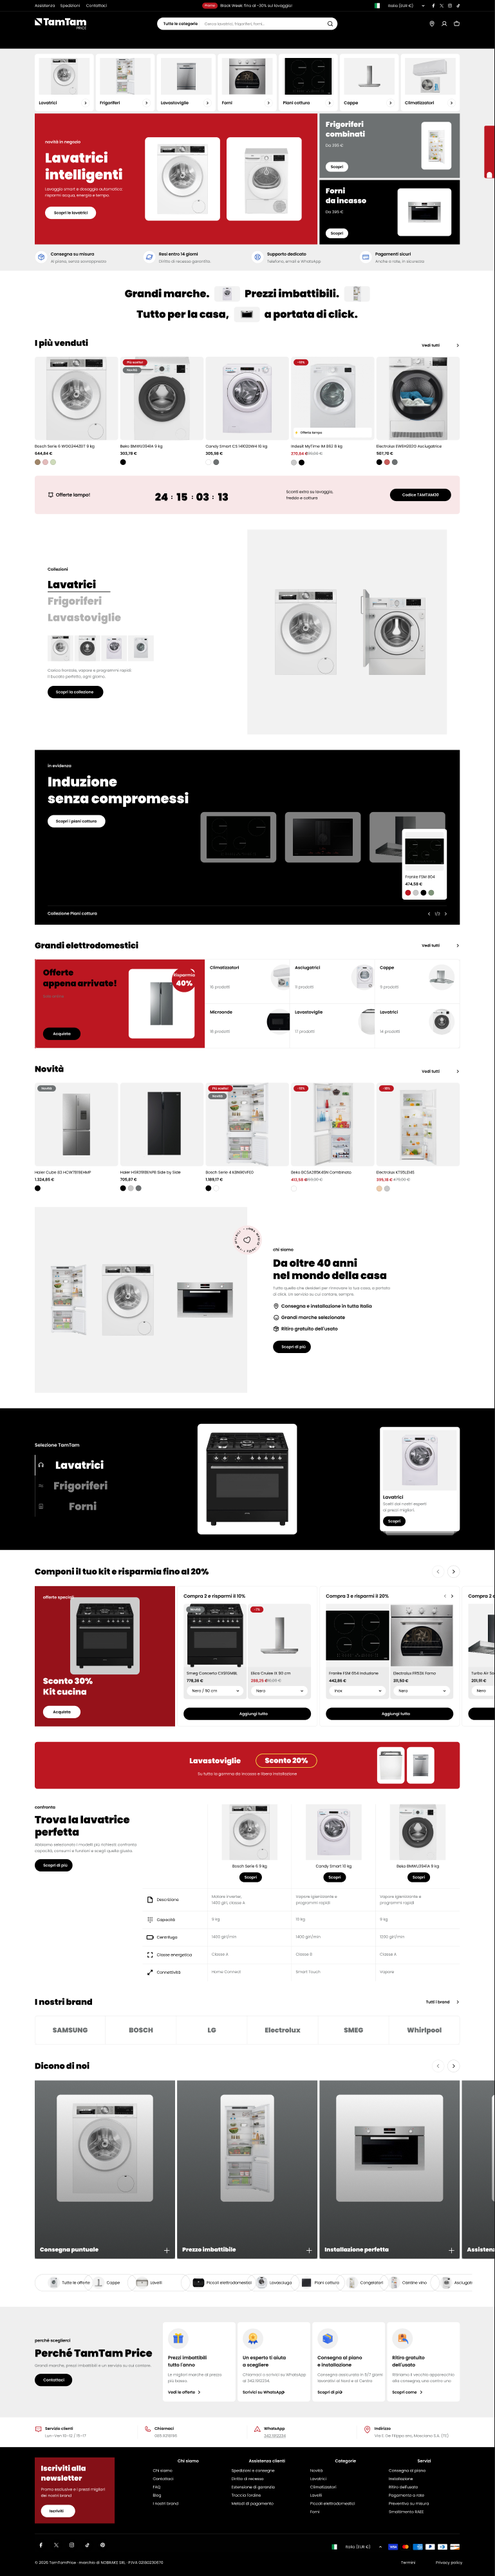
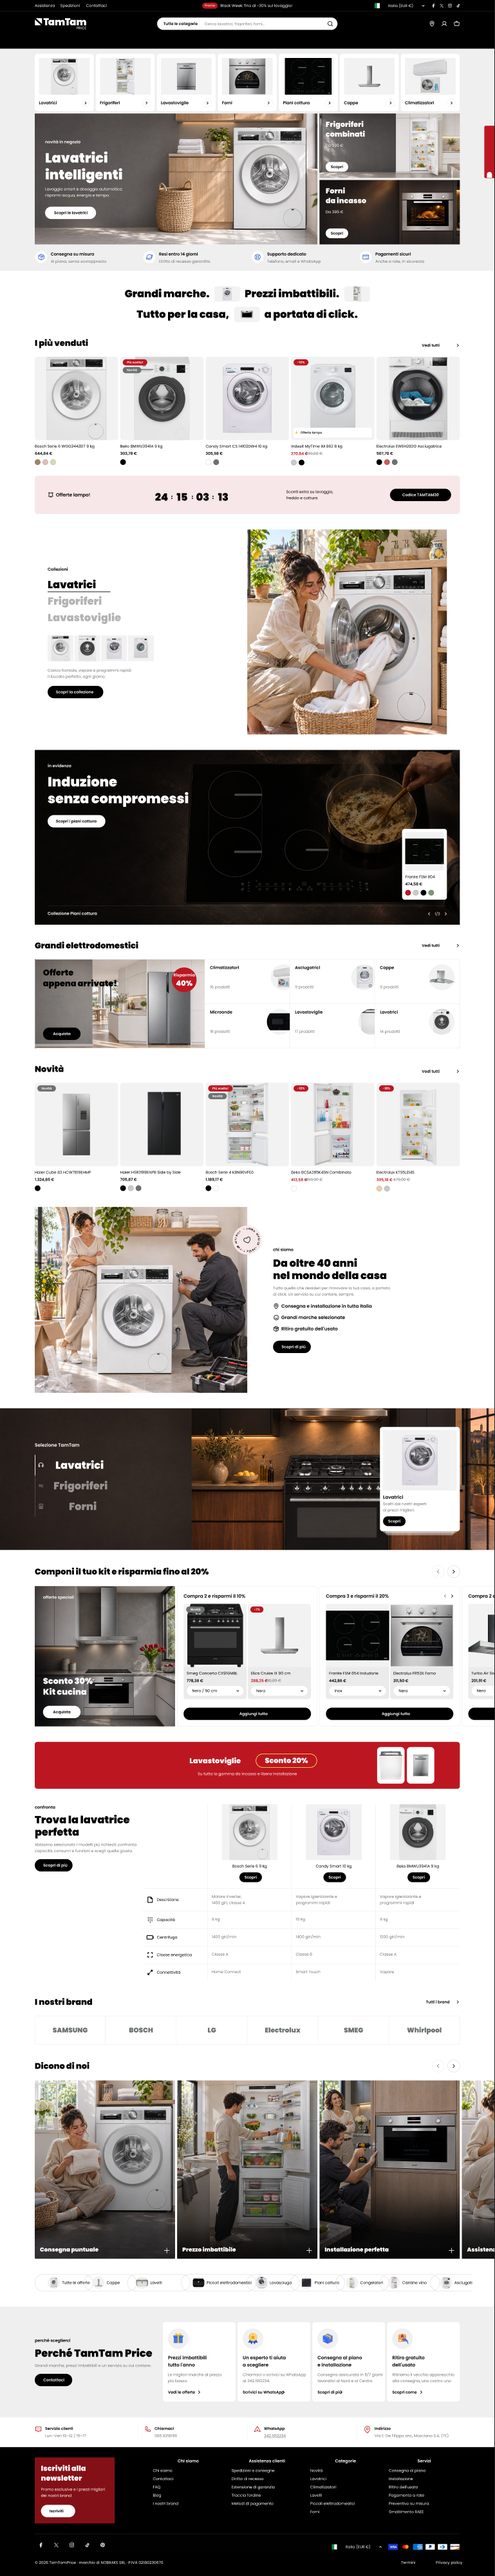
Replace homepage product montages with AI lifestyle photos
- Generated 68 photorealistic scenes with Higgsfield (gpt_image_2_6),
  each using the real product photo as a reference and the brand's
  mood (TamTam bright/dark, MisterCucina navy and terracotta,
  Trovaincasso sage and oak), with calm areas left for the headlines.
- Placed them as image fills on the homepage slots of all three sites
  and removed the old "Foto prodotto" montage layers.
- MisterCucina: navy overlay behind "Forni multifunzione". Trovaincasso:
  hero headline "Piani aspiranti" to match the new photo, wider hero
  buttons.
- Documented the slot-to-image map in docs/figma/ai-photos.md, added
  contact sheets and updated the homepage renders.

Claude-Session: https://claude.ai/code/session_01DzDcr4Xa4AaqXv1Nbqd2T5

diff --git a/docs/figma/ai-photos.md b/docs/figma/ai-photos.md
@@ -1,0 +1,70 @@
+# AI lifestyle photos on the homepages (2026-11-10)
+
+All three homepages now use **photorealistic lifestyle photos and photomontages** made with Higgsfield instead of
+product cut-outs on flat brand colours. The boards (PLP, PDP, cart, …) still use the white-background product photos.
+
+- **Tool and model:** Higgsfield, `gpt_image_2_6`, quality `high`, resolution `2k`, about 1 credit per image
+  (68 images in total).
+- **Real products:** each prompt uses the matching product photo from the `ASSETS · Foto prodotto` page as a reference,
+  so the appliance in the scene is the one sold. The prompts ask to keep the appliance's design, controls and logo.
+  People wear plain uniforms with no logos.
+- **Brand mood:**
+  - TamTam Price: bright modern kitchens and laundries, with dark areas where the white headlines sit.
+  - MisterCucina: navy cabinets, terracotta, brass and copper (Mediterranean).
+  - Trovaincasso: sage-green and light oak, handleless built-in kitchens.
+- **Text space:** where the slot carries copy, the prompt leaves a darker, calm area in that spot (left half, top
+  third, bottom third or centre).
+- **In Figma:** each image is an `IMAGE` fill (scale `FILL`) on the original slot frame. The old `Foto prodotto · …`
+  montage layers were deleted. Hidden slides of the same carousel reuse the same `imageHash`.
+- **Contact sheets:** [../screenshots/higgsfield/](../screenshots/higgsfield/) (labels `g<index>`, `p<index>` match
+  the table below).
+- **Kept as product montages:**
+  - TamTam: the dishwasher promo strip `1:5128` and the newsletter card in the footer `1:5506`.
+  - Trovaincasso: the two "Risparmia" banners `1:3575` and `1:3588`.
+
+## Slot → image
+
+| Site | Slot (node) | Section | Image | Scene |
+|---|---|---|---|---|
+| TamTam | `1:4434` | Hero | p0 | Laundry with Bosch Serie 6 washer |
+| TamTam | `1:4444` | Hero tile "Frigoriferi combinati" | g10 | Built-in fridge, door open |
+| TamTam | `1:4453` | Hero tile "Forni da incasso" | g11 | Oven with roast chicken |
+| TamTam | `1:4632` | Collections | g12 | Woman unloading the washer |
+| TamTam | `1:4638` (+`1:4684`) | Slideshow "Cucina come un professionista" | g13 | Cook opening the oven |
+| TamTam | `1:4660` (+`1:4706`) | Slideshow "Induzione senza compromessi" | g14 | Risotto on the induction hob |
+| TamTam | `1:4743` | Promo tile "Offerte appena arrivate" | g15 | Side-by-side fridge |
+| TamTam | `1:4889` | "Chi siamo" | g16 | Technician installing the washer |
+| TamTam | `1:4949` | "Selezione TamTam" banner | g17 | Range cooker, dark kitchen |
+| TamTam | `1:5023` | Bundle "Sconto 30% Kit cucina" | g18 | Hood above the oven |
+| TamTam | `1:5318` `1:5334` `1:5350` `1:5366` | "Dicono di noi" | g19–g22 | Washer, fridge, oven install, dishwasher |
+| TamTam | `1:5738` | Newsletter popup | g23 | Counter with oven, red accent |
+| MisterCucina | `1:1451` | Hero | p1 | Smeg cooker in a navy kitchen |
+| MisterCucina | `1:1462` `1:1472` `1:1481` | Hero tiles | g30–g32 | Induction, oven, coffee machine |
+| MisterCucina | `1:1765` `1:1778` `1:1791` `1:1804` `1:1817` | Card slider | g33–g37 | Oven, induction, hood, fridge, dishwasher |
+| MisterCucina | `1:1861` (+`1:1875`, `1:1896`) | "I preferiti dai clienti" | g38 | Family lunch, Smeg cooker |
+| MisterCucina | `1:1913` `1:1937` `1:1961` `1:1985` | "Acquista per reparto" | g39–g42 | Cooking, cold, extraction, washing |
+| MisterCucina | `1:2010` `1:2028` | "La cucina su misura" | g43, g44 | Gas hob, side-by-side |
+| MisterCucina | `1:2132` | "Forni multifunzione" | g45 | Chef with roast. Has a navy radial overlay for the headline |
+| MisterCucina | `1:2259` `1:2309` `1:2324` | Lookbook | g46–g48 | Cooker, hood, island |
+| MisterCucina | `1:2465` | "Set incasso completo" | g49 | Oven, hob and hood wall |
+| MisterCucina | `1:2539`–`1:2575` | Instagram | g50–g54 | Social-style shots |
+| MisterCucina | `1:2835` | Newsletter popup | g55 | Cooker knobs close-up |
+| Trovaincasso | `1:2944` (+`1:2966`) | Hero slide "La cucina giusta" | g60 | Oven column and hood |
+| Trovaincasso | `1:2955` (+`1:2977`) | Hero slide, headline now **"Piani aspiranti"** | p2 | Samsung NZ84 hob with integrated hood |
+| Trovaincasso | `1:3004` | Promo "Kit cucina da incasso" | g61 | Oven column |
+| Trovaincasso | `1:3119` `1:3138` `1:3157` `1:3176` | Image cards | g62–g65 | Oven, fridge, hood, dishwasher |
+| Trovaincasso | `1:3343` | "Collezioni in evidenza" | g66 | Island with hob and hood |
+| Trovaincasso | `1:3348` (+`1:3383`), `1:3362` | "I preferiti dai clienti" | g67, g84 | Built-in washer |
+| Trovaincasso | `1:3391` `1:3443` `1:3493` | "Lasciati ispirare" | g68–g70 | Cooker, coffee column, hob and hood |
+| Trovaincasso | `1:3768` | "Chi siamo" | g71 | Installers and customer |
+| Trovaincasso | `1:3863` (+`1:3889`), `1:3876` (+`1:3902`) | Slideshow "Piani cottura sotto i 300 €" | g72, g73 | Oven detail, gas hob |
+| Trovaincasso | `1:3992` `1:3998` `1:4004` `1:4010` | "Perché scegliere Trovaincasso" | g74–g77 | Delivery, prices, pickup of the old appliance, warranty |
+| Trovaincasso | `1:4019`–`1:4055` | Instagram | g78–g82 | Social-style shots |
+| Trovaincasso | `1:4317` | Newsletter popup | g83 | Induction hob with lemons |
+
+## Check before going live
+
+- These are AI images. Check that each appliance's logo and details match the real product before using them in ads
+  or on product pages.
+- The people are generated, so they need no model release. Still, avoid presenting them as real customers, for example
+  in testimonials.

diff --git a/CLAUDE.md b/CLAUDE.md
@@ -38,6 +38,10 @@ Full-page renders: `docs/screenshots/after/*.png` (current) and `docs/screenshot
   structure, copy, photomontages and product images.
 - **Current state (2026-11-06):** all 3 homepages are rebranded and each page has 4 prototype boards, a brand kit
   and components. See [docs/figma/prototype.md](docs/figma/prototype.md) for node ids, flows and placeholders.
+- **Homepage photos (2026-11-10):** the homepage image slots hold AI lifestyle photos made with Higgsfield from the
+  real product photos (`gpt_image_2_6`). The slot → image map, and the slots that keep product montages, are in
+  [docs/figma/ai-photos.md](docs/figma/ai-photos.md). To change a photo, set a new `IMAGE` fill on the slot frame.
+  Hidden carousel slides reuse the same `imageHash`.
 - **Access and limits:** the file lives in the *Alessandro Molinari DWAY* team (Education plan). The connector is
   limited to 200 calls/day and 10/minute, and a collection can have only **1 variable mode**. Variables are therefore
   split into 3 collections `Brand · <brand>`.

diff --git a/docs/figma/prototype.md b/docs/figma/prototype.md
@@ -71,6 +71,6 @@ cart, ⇄ Confronta → compare) → cart (✕ closes). Logo → home.
 
 - The homepages are still the imported absolute-position layouts. The new boards use auto-layout, variables, text
   styles and components.
-- Lifestyle images (people, rooms) were replaced by product photomontages on brand colours. No AI images were
-  generated. If you want them, Figma's `generate_image` uses AI credits.
+- Homepage photos: since 2026-11-10 the homepages use AI lifestyle photos made with Higgsfield from the real products.
+  See [ai-photos.md](ai-photos.md). The boards (PLP, PDP, cart, …) still use the white-background product photos.
 - Desktop only. Mobile versions of the boards are the natural next step.
